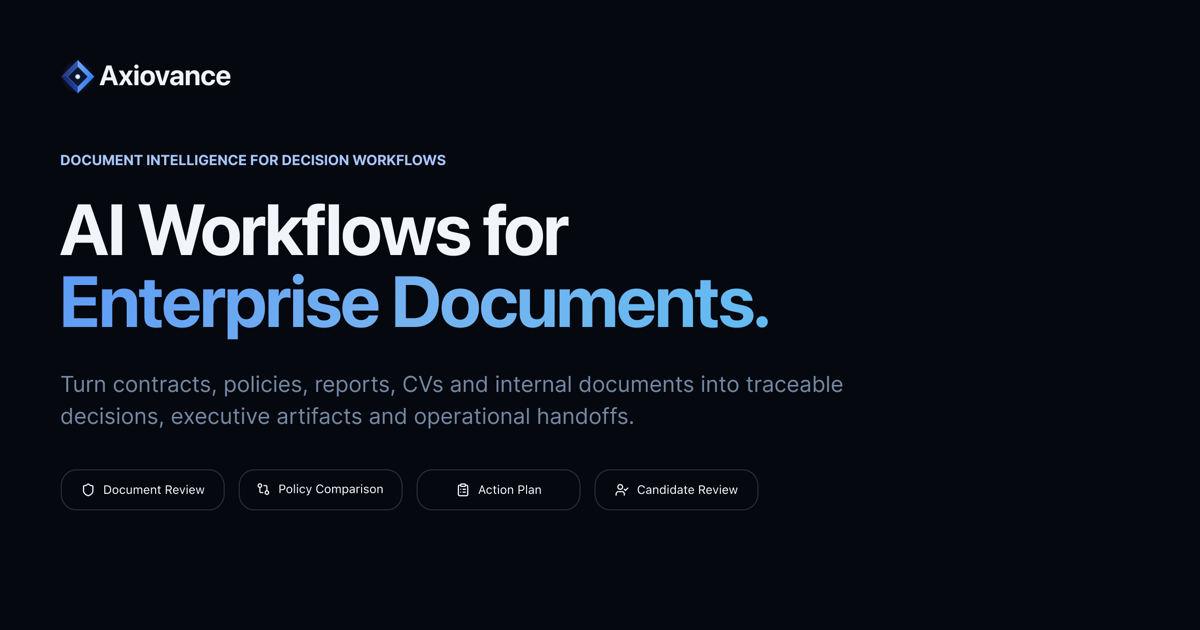
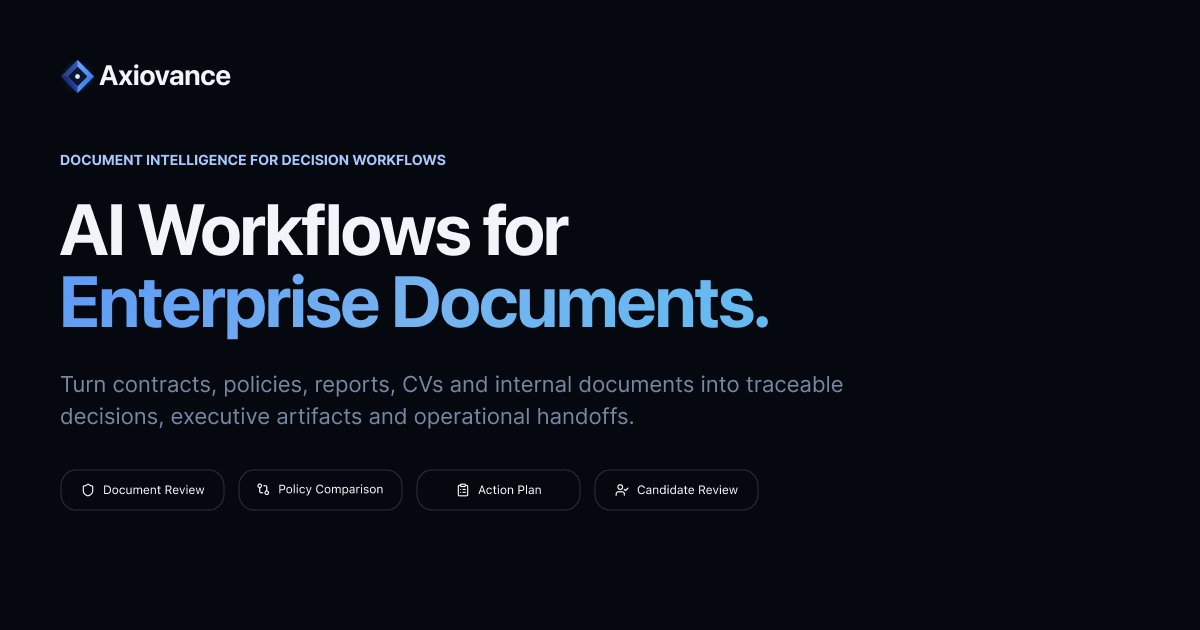
fix(seo): change og-image quality

diff --git a/frontend/index.html b/frontend/index.html
@@ -13,7 +13,7 @@
     <link rel="apple-touch-icon" sizes="180x180" href="/apple-touch-icon.png" />
     <link rel="manifest" href="/site.webmanifest" />
 
-    <title>Axiovance - AI Workflows for Enterprise Documents</title>
+    <title>Axiovance | AI Workflows for Enterprise Documents</title>
 
     <meta
       name="description"
@@ -26,7 +26,7 @@
     <meta name="theme-color" content="#020817" />
 
     <meta property="og:site_name" content="Axiovance" />
-    <meta property="og:title" content="Axiovance — AI Workflows for Enterprise Documents" />
+    <meta property="og:title" content="Axiovance | AI Workflows for Enterprise Documents" />
     <meta
       property="og:description"
       content="Turn contracts, policies, reports, CVs and internal documents into traceable AI decisions, executive artifacts and operational handoffs."
@@ -37,16 +37,16 @@
     <meta property="og:image:type" content="image/png" />
     <meta property="og:image:width" content="1200" />
     <meta property="og:image:height" content="630" />
-    <meta property="og:image:alt" content="Axiovance — AI Workflows for Enterprise Documents" />
+    <meta property="og:image:alt" content="Axiovance | AI Workflows for Enterprise Documents" />
 
     <meta name="twitter:card" content="summary_large_image" />
-    <meta name="twitter:title" content="Axiovance — AI Workflows for Enterprise Documents" />
+    <meta name="twitter:title" content="Axiovance | AI Workflows for Enterprise Documents" />
     <meta
       name="twitter:description"
       content="AI workflows that turn enterprise documents into decisions teams can trust, defend and execute."
     />
     <meta name="twitter:image" content="https://axiovance.danyel-lambert.com/og-image.png" />
-    <meta name="twitter:image:alt" content="Axiovance — AI Workflows for Enterprise Documents" />
+    <meta name="twitter:image:alt" content="Axiovance | AI Workflows for Enterprise Documents" />
 
     <script type="application/ld+json">
       {